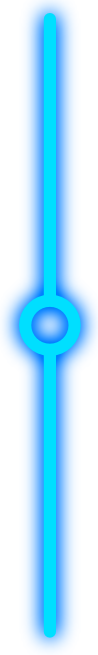
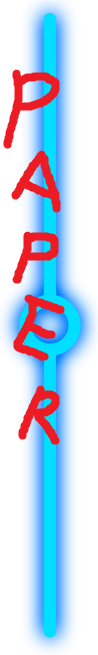
themes in lobbyUI

Changed region(s): [[0.1224, 0.2137, 0.6735, 0.5496], [0.0306, 0.0916, 0.6122, 0.2443], [0.1837, 0.5802, 0.6122, 0.7023]]

diff --git a/View/LobbyUI.py b/View/LobbyUI.py
@@ -13,55 +13,58 @@ class LobbyUI:
     """
 
     # Art
-    exitIcon = pygame.image.load('Art/Neon/exit2.png')
-    keypad_1 = pygame.image.load('Art/Neon/1.png')
-    keypad_1_highlight = pygame.image.load('Art/Neon/1_highlight.png')
-    keypad_2 = pygame.image.load('Art/Neon/2.png')
-    keypad_2_highlight = pygame.image.load('Art/Neon/2_highlight.png')
-    keypad_3 = pygame.image.load('Art/Neon/3.png')
-    keypad_3_highlight = pygame.image.load('Art/Neon/3_highlight.png')
-    keypad_4 = pygame.image.load('Art/Neon/4.png')
-    keypad_4_highlight = pygame.image.load('Art/Neon/4_highlight.png')
-    keypad_5 = pygame.image.load('Art/Neon/5.png')
-    keypad_5_highlight = pygame.image.load('Art/Neon/5_highlight.png')
-    keypad_6 = pygame.image.load('Art/Neon/6.png')
-    keypad_6_highlight = pygame.image.load('Art/Neon/6_highlight.png')
-    keypad_7 = pygame.image.load('Art/Neon/7.png')
-    keypad_7_highlight = pygame.image.load('Art/Neon/7_highlight.png')
-    keypad_8 = pygame.image.load('Art/Neon/8.png')
-    keypad_8_highlight = pygame.image.load('Art/Neon/8_highlight.png')
-    keypad_9 = pygame.image.load('Art/Neon/9.png')
-    keypad_9_highlight = pygame.image.load('Art/Neon/9_highlight.png')
-    keypad_0 = pygame.image.load('Art/Neon/0.png')
-    keypad_0_highlight = pygame.image.load('Art/Neon/0_highlight.png')
-    keypad_dash = pygame.image.load('Art/Neon/dash.png')
-    keypad_dash_highlight = pygame.image.load('Art/Neon/dash-highlight.png')
-    keypad_cancel = pygame.image.load('Art/Neon/c.png')
-    keypad_cancel_highlight = pygame.image.load('Art/Neon/c_highlight.png')
-    keypad_join_game = pygame.image.load('Art/Neon/join_bigger.png')
-    keypad_join_game_highlight = pygame.image.load('Art/Neon/join_bigger_highlight.png')
-    keypad_screen = pygame.image.load('Art/Neon/keypad_screen_small.png')
-    join_random = pygame.image.load('Art/Neon/randomgame.png')
-    join_random_highlight = pygame.image.load('Art/Neon/randomgame_highlight.png')
-    create_game = pygame.image.load('Art/Neon/createprivate.png')
-    create_game_highlight = pygame.image.load('Art/Neon/createprivate_highlight.png')
-    central_line = pygame.image.load('Art/Neon/line_vertical.png')
+    exitIcon = None
+    keypad_1 = None
+    keypad_1_highlight = None
+    keypad_2 = None
+    keypad_2_highlight = None
+    keypad_3 = None
+    keypad_3_highlight = None
+    keypad_4 = None
+    keypad_4_highlight = None
+    keypad_5 = None
+    keypad_5_highlight = None
+    keypad_6 = None
+    keypad_6_highlight = None
+    keypad_7 = None
+    keypad_7_highlight = None
+    keypad_8 = None
+    keypad_8_highlight = None
+    keypad_9 = None
+    keypad_9_highlight = None
+    keypad_0 = None
+    keypad_0_highlight = None
+    keypad_dash = None
+    keypad_dash_highlight = None
+    keypad_cancel = None
+    keypad_cancel_highlight = None
+    keypad_join_game = None
+    keypad_join_game_highlight = None
+    keypad_screen = None
+    join_random = None
+    join_random_highlight = None
+    create_game = None
+    create_game_highlight = None
+    central_line = None
 
     # options buttons.
-    boardsize_1 = pygame.image.load('Art/Neon/boardsize_9x7.png')
-    boardsize_1_highlight = pygame.image.load('Art/Neon/boardsize_9x7_selected.png')
-    boardsize_2 = pygame.image.load('Art/Neon/boardsize_13x9.png')
-    boardsize_2_highlight = pygame.image.load('Art/Neon/boardsize_13x9_selected.png')
-    boardsize_3 = pygame.image.load('Art/Neon/boardsize_17x7.png')
-    boardsize_3_highlight = pygame.image.load('Art/Neon/boardsize_17x7_selected.png')
-    boardsize_4 = pygame.image.load('Art/Neon/boardsize_19x15.png')
-    boardsize_4_highlight = pygame.image.load('Art/Neon/boardsize_19x15_selected.png')
+    boardsize_1 = None
+    boardsize_1_highlight = None
+    boardsize_2 = None
+    boardsize_2_highlight = None
+    boardsize_3 = None
+    boardsize_3_highlight = None
+    boardsize_4 = None
+    boardsize_4_highlight = None
 
     font = pygame.font.SysFont('arialbold', 50)
 
-
-
     def __init__(self, controller):
+        # Theme
+        self.theme = Settings.theme
+
+        self.load_textures()
+
         # State
         self.is_running = False
 
@@ -157,8 +160,6 @@ class LobbyUI:
             self.controller.change_view(self.controller.gameUI)
         print(f"[BUTTON PRESSED] action: {action}, argument: {arg1} | keycode: {self.keycode}, server-creation-type: {self.server_creation_type}")
 
-
-
     def event_handler(self):
         for event in pygame.event.get():
             if event.type == pygame.QUIT:
@@ -216,6 +217,12 @@ class LobbyUI:
                     self.chosen_boardsize = (19,15)
 
     def update(self):
+        # Check for theme change
+        if self.theme != Settings.theme:
+            self.load_textures()
+            self.theme = Settings.theme
+
+        # Layout helper variables
         display_x = self.screen.get_width()/7
         sw = self.screen.get_width()
         sh = self.screen.get_height()
@@ -340,6 +347,55 @@ class LobbyUI:
             self.screen.blit(self.boardsize_4_highlight, (self.boardsize_4_button.x, self.boardsize_4_button.y))
 
         pygame.display.flip()
+
+    def load_textures(self):
+        # Path based on current theme
+        path = "Art/" + Settings.theme
+
+        # Load appropriate textures
+        LobbyUI.exitIcon = pygame.image.load(path+'/exit2.png')
+        LobbyUI.keypad_1 = pygame.image.load(path+'/1.png')
+        LobbyUI.keypad_1_highlight = pygame.image.load(path+'/1_highlight.png')
+        LobbyUI.keypad_2 = pygame.image.load(path+'/2.png')
+        LobbyUI.keypad_2_highlight = pygame.image.load(path+'/2_highlight.png')
+        LobbyUI.keypad_3 = pygame.image.load(path+'/3.png')
+        LobbyUI.keypad_3_highlight = pygame.image.load(path+'/3_highlight.png')
+        LobbyUI.keypad_4 = pygame.image.load(path+'/4.png')
+        LobbyUI.keypad_4_highlight = pygame.image.load(path+'/4_highlight.png')
+        LobbyUI.keypad_5 = pygame.image.load(path+'/5.png')
+        LobbyUI.keypad_5_highlight = pygame.image.load(path+'/5_highlight.png')
+        LobbyUI.keypad_6 = pygame.image.load(path+'/6.png')
+        LobbyUI.keypad_6_highlight = pygame.image.load(path+'/6_highlight.png')
+        LobbyUI.keypad_7 = pygame.image.load(path+'/7.png')
+        LobbyUI.keypad_7_highlight = pygame.image.load(path+'/7_highlight.png')
+        LobbyUI.keypad_8 = pygame.image.load(path+'/8.png')
+        LobbyUI.keypad_8_highlight = pygame.image.load(path+'/8_highlight.png')
+        LobbyUI.keypad_9 = pygame.image.load(path+'/9.png')
+        LobbyUI.keypad_9_highlight = pygame.image.load(path+'/9_highlight.png')
+        LobbyUI.keypad_0 = pygame.image.load(path+'/0.png')
+        LobbyUI.keypad_0_highlight = pygame.image.load(path+'/0_highlight.png')
+        LobbyUI.keypad_dash = pygame.image.load(path+'/dash.png')
+        LobbyUI.keypad_dash_highlight = pygame.image.load(path+'/dash-highlight.png')
+        LobbyUI.keypad_cancel = pygame.image.load(path+'/c.png')
+        LobbyUI.keypad_cancel_highlight = pygame.image.load(path+'/c_highlight.png')
+        LobbyUI.keypad_join_game = pygame.image.load(path+'/join_bigger.png')
+        LobbyUI.keypad_join_game_highlight = pygame.image.load(path+'/join_bigger_highlight.png')
+        LobbyUI.keypad_screen = pygame.image.load(path+'/keypad_screen_small.png')
+        LobbyUI.join_random = pygame.image.load(path+'/randomgame.png')
+        LobbyUI.join_random_highlight = pygame.image.load(path+'/randomgame_highlight.png')
+        LobbyUI.create_game = pygame.image.load(path+'/createprivate.png')
+        LobbyUI.create_game_highlight = pygame.image.load(path+'/createprivate_highlight.png')
+        LobbyUI.central_line = pygame.image.load(path+'/line_vertical.png')
+
+        # options buttons.
+        LobbyUI.boardsize_1 = pygame.image.load(path+'/boardsize_9x7.png')
+        LobbyUI.boardsize_1_highlight = pygame.image.load(path+'/boardsize_9x7_selected.png')
+        LobbyUI.boardsize_2 = pygame.image.load(path+'/boardsize_13x9.png')
+        LobbyUI.boardsize_2_highlight = pygame.image.load(path+'/boardsize_13x9_selected.png')
+        LobbyUI.boardsize_3 = pygame.image.load(path+'/boardsize_17x7.png')
+        LobbyUI.boardsize_3_highlight = pygame.image.load(path+'/boardsize_17x7_selected.png')
+        LobbyUI.boardsize_4 = pygame.image.load(path+'/boardsize_19x15.png')
+        LobbyUI.boardsize_4_highlight = pygame.image.load(path+'/boardsize_19x15_selected.png')
 
 # Helper Function
 def draw_text(text, font, color, surface, x, y):
